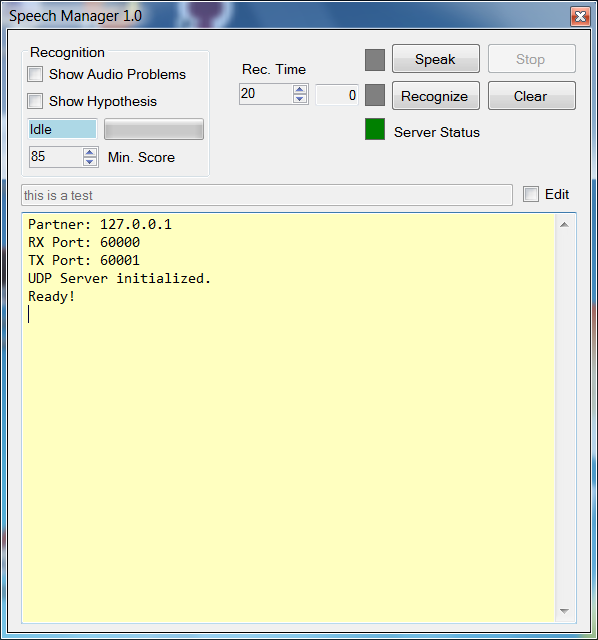
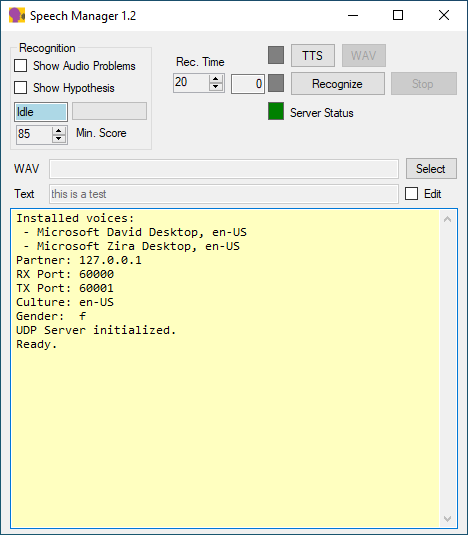
Version Info
Updated version to 1.2 after adding gender option.  New screenshot.  Changed appearance so icon is in upper left of app window.

Changed region(s): [[0.0, 0.0, 1.0, 1.0]]

diff --git a/SpeechManager/Properties/AssemblyInfo.cs b/SpeechManager/Properties/AssemblyInfo.cs
@@ -10,7 +10,7 @@ using System.Runtime.InteropServices;
 [assembly: AssemblyConfiguration("")]
 [assembly: AssemblyCompany("")]
 [assembly: AssemblyProduct("SpeechManager")]
-[assembly: AssemblyCopyright("Copyright ©  2017")]
+[assembly: AssemblyCopyright("Copyright ©  2019")]
 [assembly: AssemblyTrademark("")]
 [assembly: AssemblyCulture("")]
 
@@ -32,5 +32,5 @@ using System.Runtime.InteropServices;
 // You can specify all the values or you can default the Build and Revision Numbers 
 // by using the '*' as shown below:
 // [assembly: AssemblyVersion("1.0.*")]
-[assembly: AssemblyVersion("1.0.0.0")]
-[assembly: AssemblyFileVersion("1.0.0.0")]
+[assembly: AssemblyVersion("1.2.0.0")]
+[assembly: AssemblyFileVersion("1.2.0.0")]

diff --git a/SpeechManager/Form1.Designer.cs b/SpeechManager/Form1.Designer.cs
@@ -399,7 +399,6 @@
             this.Controls.Add(this.buttonCancel);
             this.Controls.Add(this.textBoxPhrase);
             this.Controls.Add(this.buttonRecognize);
-            this.FormBorderStyle = System.Windows.Forms.FormBorderStyle.SizableToolWindow;
             this.Icon = ((System.Drawing.Icon)(resources.GetObject("$this.Icon")));
             this.Margin = new System.Windows.Forms.Padding(2);
             this.MaximumSize = new System.Drawing.Size(482, 720);
